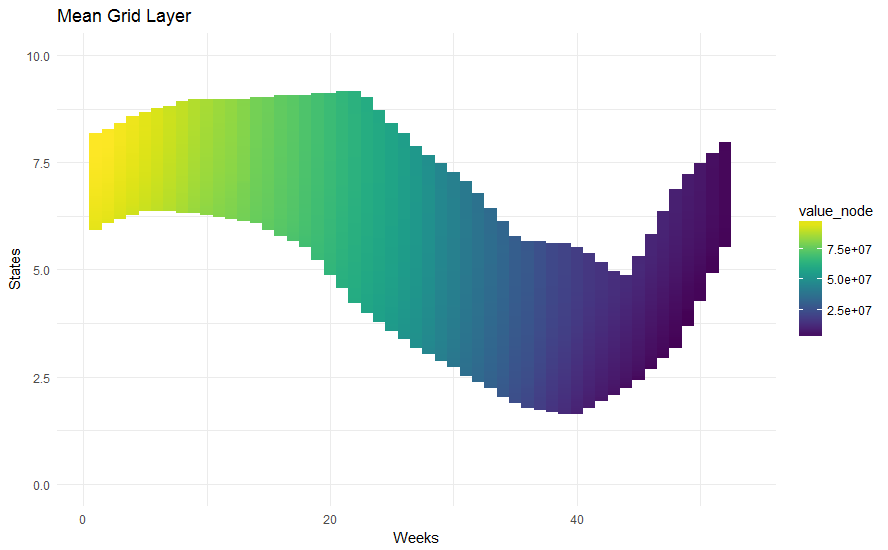
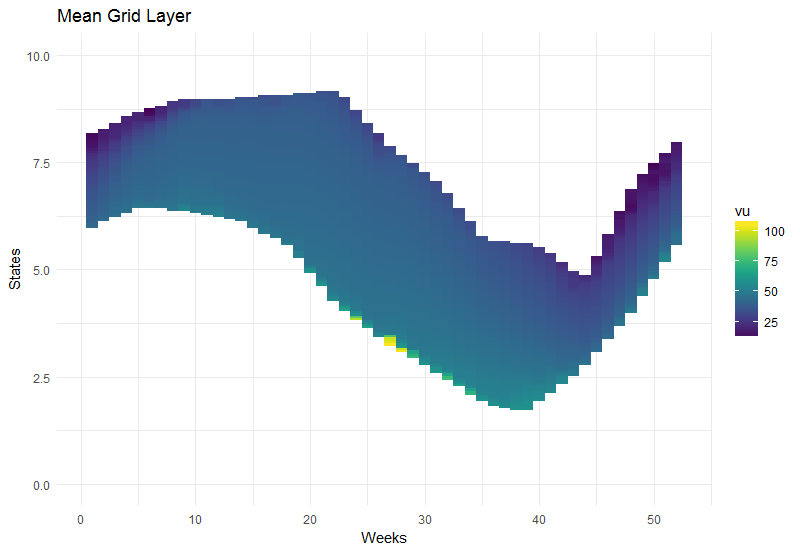
Update readme

diff --git a/README.md b/README.md
@@ -44,9 +44,9 @@ updateGeneralSettings(nbyears = 20)
 # a binding constraints, set to 0 the hydro storage times series, ...)
 # and return the names of the simulations run
 
-simulation_names <- runWaterValuesSimulation(
+simulation_res <- runWaterValuesSimulation(
   area = "fr",
-  nb_simulation = 15,
+  nb_simulation = 10,
   path_solver = "C:/antares/bin/antares-6.0-solver.exe", 
   show_output_on_console = FALSE,
   overwrite = TRUE
@@ -59,25 +59,34 @@ When each simulation has run, we can use result to calculate a mean grid layer :
 ```r
 # Parameters
 
-# Values for simulations
-simulation_values <- gsub("weekly_water_amount_", "", simulation_names)
+# Values and names for simulations
+simulation_names <- simulation_res$simulation_names
+simulation_values <- simulation_res$simulation_values
+
+# If you don't have run 'runWaterValuesSimulation' before, you can retrieve names and values loke this :
+simulation_names <- getSimulationNames(pattern = "decision")
+simulation_names <- gsub(pattern = ".*eco-", replacement = "", x = simulation_names)
+
+simulation_values <- gsub("decision|twh", "", simulation_names)
 simulation_values <- gsub(",", ".", simulation_values)
 simulation_values <- as.numeric(simulation_values)
 
+
 # Number of weeks
-n_weeks <- 53
+n_weeks <- 52
 
 # states matrix
-states <- matrix( rep(seq(from = 10, to = 0, by = -0.05), n_weeks), byrow = FALSE, ncol = n_weeks)
+states <- matrix( rep(seq(from = 10, to = 0, by = -0.05), n_weeks + 1), byrow = FALSE, ncol = n_weeks + 1)
 
 
 
 # Nodes values calculation
-value_nodes <- meanGridLayer(
+value_nodes_2017 <- meanGridLayer(
   area = "fr",
   simulation_names = simulation_names, 
   simulation_values = simulation_values,
-  states = states, max_mcyears = 10,
+  states = states, 
+  n_runs = 2,
   n_week = n_weeks, 
   week_53 = 0
 )
@@ -101,8 +110,8 @@ Here's a representation of the result :
 ```r
 library(ggplot2)
 library(viridis)
-ggplot(data = value_nodes) + 
-  aes(x = weeks, y = states, fill = value_node) + 
+ggplot(data = value_nodes_2017) + 
+  aes(x = weeks, y = states, fill = vu) + 
   geom_tile() + 
   scale_fill_viridis(na.value = "transparent") + 
   theme_minimal() + 
@@ -111,4 +120,21 @@ ggplot(data = value_nodes) +
 ```
 ![mean grid layer](inst/img/mean_grid_layer.png)
 
+
+
+
+Adding bands around water values :
+
+```r
+value_nodes_2017 <- value_nodes_2017[, vu_band := addBand(vu = vu, states = states, failure_cost = 100), by = weeks]
+
+ggplot(data = value_nodes_2017) + 
+  aes(x = weeks, y = states, fill = vu_band) + 
+  geom_tile() + 
+  scale_fill_viridis(na.value = "transparent") + 
+  theme_minimal() + 
+  labs(title = "Mean Grid Layer with bands", x = "Weeks", y = "States")
+```
+
+![mean grid layer bands](inst/img/mean_grid_layer_bands.png)
 
